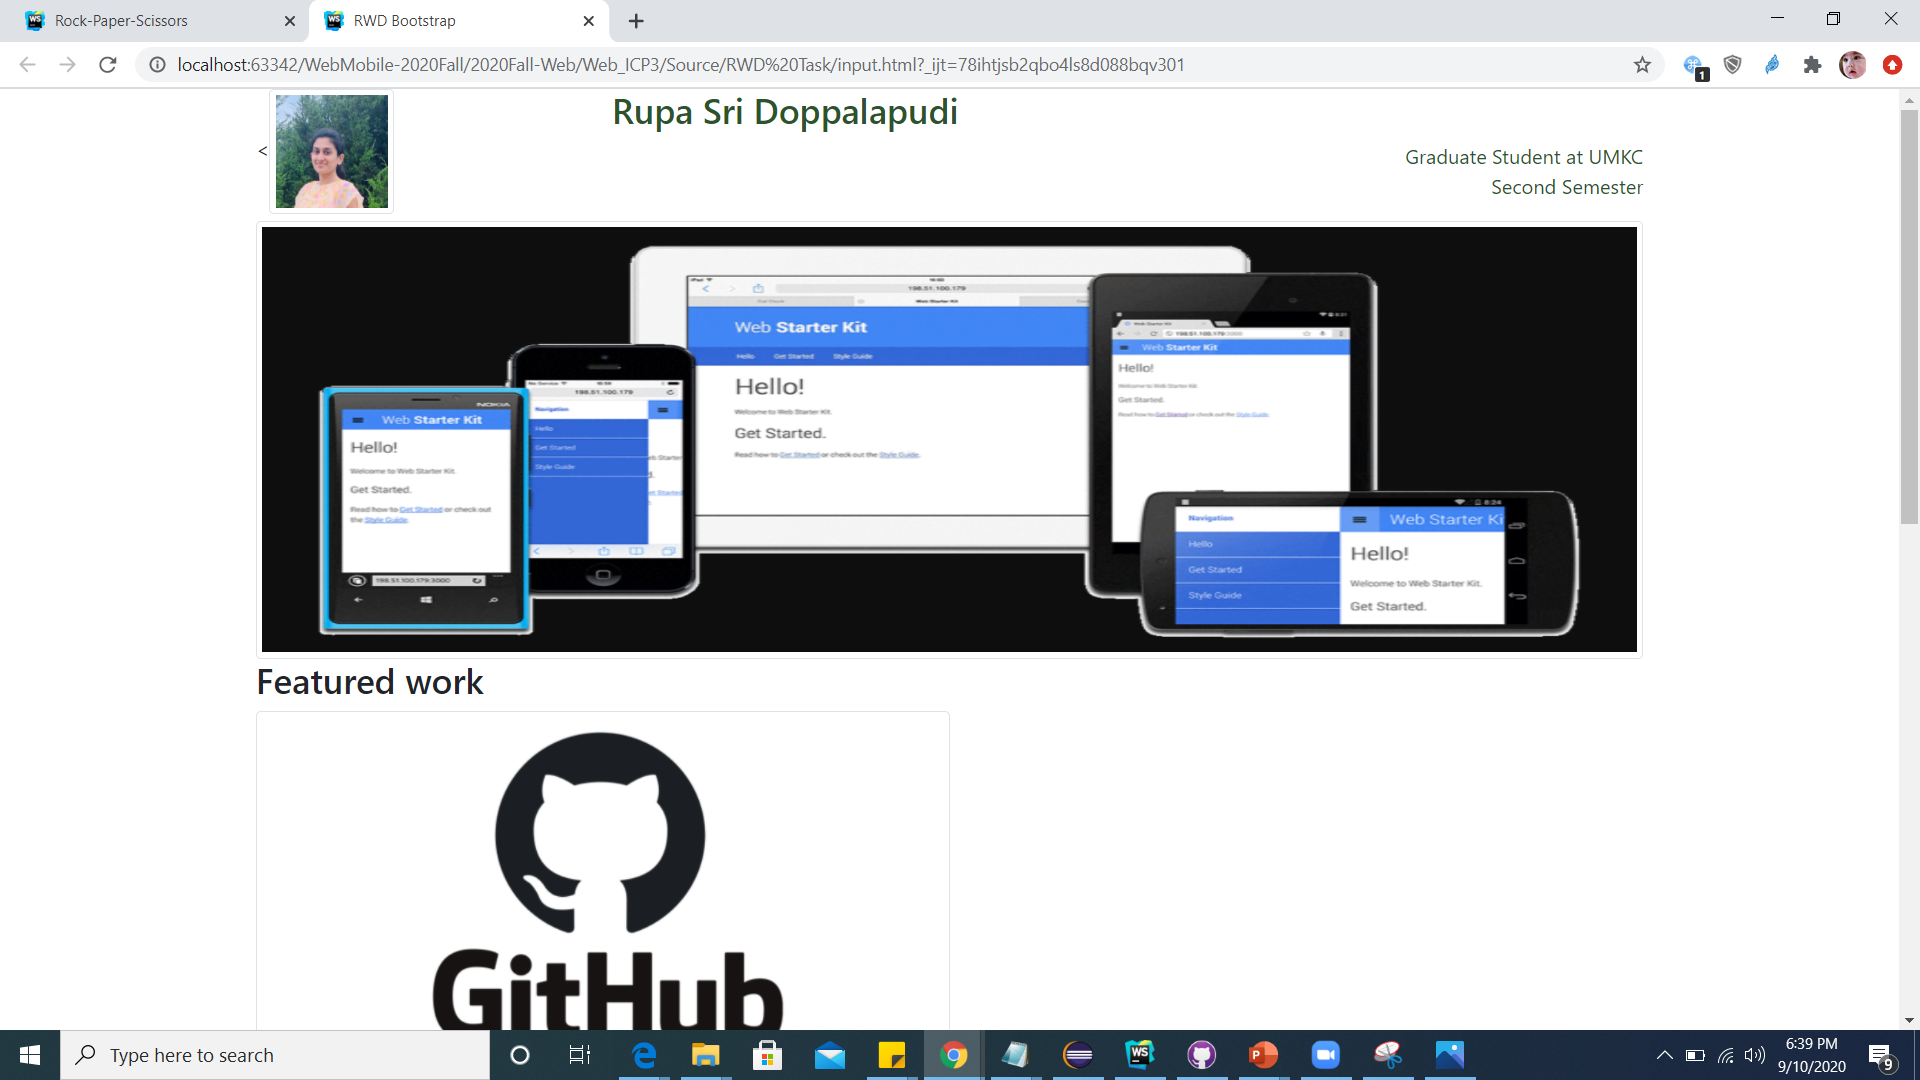
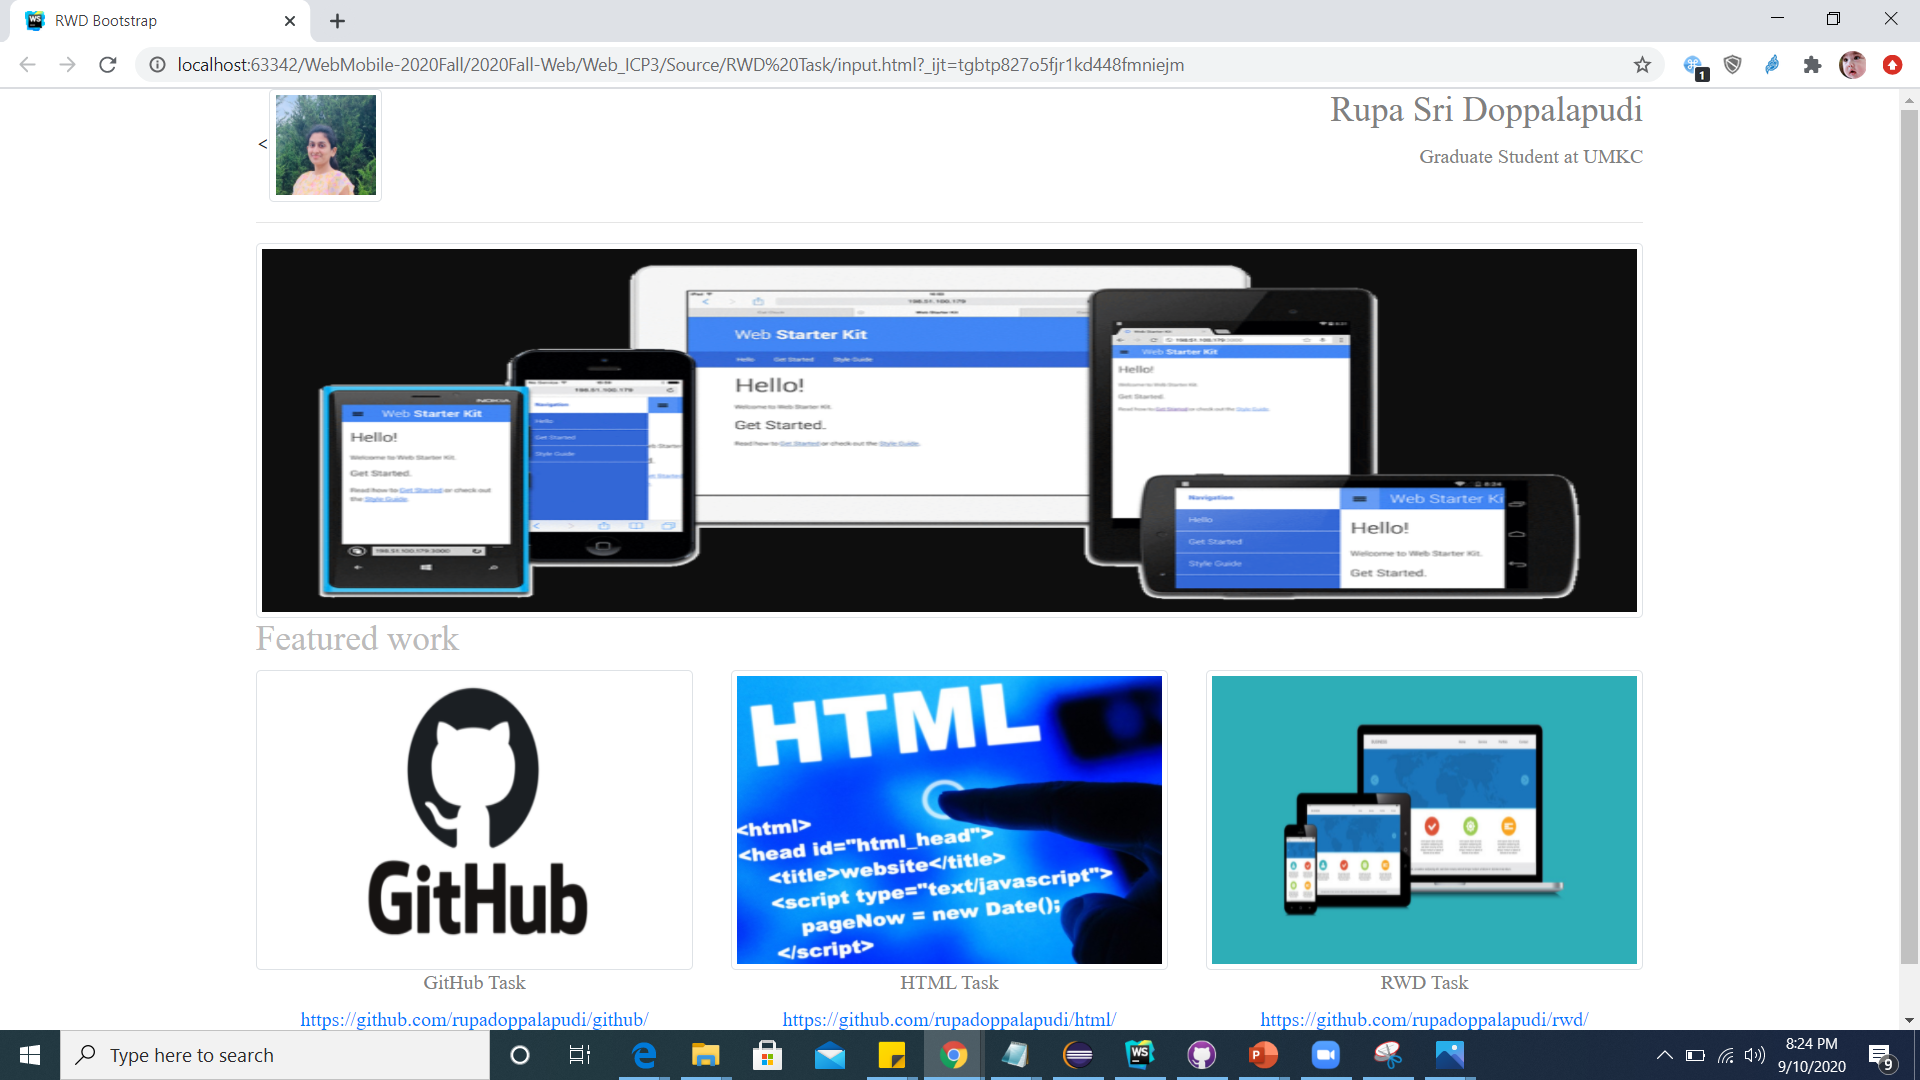
Included Screenshots

diff --git a/2020Fall-Web/Web_ICP3/Source/RWD Task/input.html b/2020Fall-Web/Web_ICP3/Source/RWD Task/input.html
@@ -30,55 +30,48 @@ TODO:
         <!-- dividing 12 columns -->
         <div class="col-3">  <!-- assigning first 3 columns for profile picture -->
             <!---------------------- assigning content to columns ------------------------->
-            <<img src="Images/pic.jpg" alt="profile pic" class="img-thumbnail profile-pic" style="width:100px;height: 100px;"> <!-- media-object -->
+            <<img src="Images/pic.jpg" alt="profile pic" class="img-thumbnail profile-pic" style="width:90px;height: 90px;"> <!-- media-object -->
 
         </div>
-        <div class="col-9">  <!-- assigning remaining 9 columns for details -->
-            <div class="info">
-                <h3 style="color: #2b542c">Rupa Sri Doppalapudi </h3>
-                <p  style="color: #2b542c" align="right"> Graduate Student at UMKC <br> Second Semester</p>
+        <div class="col-9" style="font-family: Lato">  <!-- assigning remaining 9 columns for details -->
+            <div class="info" style="font-family: Lato; color: gray">
+                <h3 align="right" >Rupa Sri Doppalapudi </h3>
+                <p   align="right"> Graduate Student at UMKC </p>
             </div>
         </div>
     </div>
+    <hr>  <!-- Horizontal line -->
+
     <!-- feature work/main image of the page -->
     <div class="row">
         <div class="col">
             <div class="main">
-                <img src="Images/web_mobile_pic.PNG" class="img-thumbnail profile-pic" style="width:1140px;height: 350px;" alt="Web Mobile pic"/>
-                <h3 class="info">Featured work</h3>
+                <img src="Images/web_mobile_pic.PNG" class="img-thumbnail profile-pic" style="width:1140px; height: 300px;" alt="Web Mobile pic"/>
+                <h3 class="info" style="font-family: Lato; color: #BCBBBB">Featured work</h3>
 
             </div>
         </div>
     </div>
 
-    <!-- assigning the image and links-->
-    <div class="row info">
+    <!-- dividing last row of container into 3 columns -->
+    <div class="row last mb-20" style="font-family: Lato; color: gray">
+
         <div class="col">
-            <img src="Images/github_pic.PNG" class="img-thumbnail profile-pic" style="width:555px;height: 300px;" alt="GitHub pic"/>
-            <h3>GitHub Task</h3> <!-- App1 -->
-            <p><a href="https://github.com/rupadoppalapudi/WebMobile-2020Fall/tree/master/2020Fall-Web/Web_ICP1">View Task_ICP1</a></p>
-        </div>
+            <img src="Images/github_pic.PNG" class="img-thumbnail profile-pic" style="width:555px;height: 240px;" alt="GitHub pic"/>
+            <h6 class="image-heading" align="center">GitHub Task</h6>
+            <p style="text-align: center"><a href="https://github.com/rupadoppalapudi/WebMobile-2020Fall/tree/master/2020Fall-Web/Web_ICP1">https://github.com/rupadoppalapudi/github/</a></p>
         </div>
 
-    <!-- dividing the row into 2 parts and assigning the image and links-->
-    <div class="row info">
         <div class="col">
-            <img src="Images/html_pic.PNG" class="img-thumbnail profile-pic" style="width:555px;height: 300px;" alt="HTML pic"/>
-            <h3>HTML Task</h3>
-            <p><a href="https://github.com/rupadoppalapudi/WebMobile-2020Fall/tree/master/2020Fall-Web/Web_ICP2">View Task_ICP2</a></p>
+            <img src="Images/html_pic.PNG" class="img-thumbnail profile-pic" style="width:555px;height: 240px;" alt="HTML pic"/>
+            <h6 class="image-heading" align="center">HTML Task</h6>
+            <p style="text-align: center"><a href="https://github.com/rupadoppalapudi/WebMobile-2020Fall/tree/master/2020Fall-Web/Web_ICP2">https://github.com/rupadoppalapudi/html/</a></p>
         </div>
-        <div class="col">
-            <img src="Images/css_pic.PNG" class="img-thumbnail profile-pic" style="width:555px;height: 300px;" alt="CSS pic"/>
-            <h3>CSS Task</h3>
-        </div>
-    </div>
 
-    <!-- last row of container -->
-    <div class="row last">
         <div class="col">
-            <img src="Images/rwd_pic.PNG" class="img-thumbnail profile-pic" style="width:555px;height: 300px;" alt="RWD pic"/>
-            <h3>RWD Task</h3>
-            <p><a href="https://github.com/rupadoppalapudi/WebMobile-2020Fall/tree/master/2020Fall-Web/Web_ICP3">View Task_ICP3</a></p>
+            <img src="Images/rwd_pic.PNG" class="img-thumbnail profile-pic" style="width:555px;height: 240px;" alt="RWD pic"/>
+            <h6 class="image-heading" align="center">RWD Task</h6>
+            <p style="text-align: center"><a href="https://github.com/rupadoppalapudi/WebMobile-2020Fall/tree/master/2020Fall-Web/Web_ICP3">https://github.com/rupadoppalapudi/rwd/</a></p>
         </div>
     </div>
 
@@ -86,7 +79,7 @@ TODO:
     </div>
 
 
-<!------------------------------ links to JavaScript ( jQuery, Popper.js, Bootstrap JS ) --------------------------------
+<!------------------------------ links to JavaScript ( jQuery, Popper.js, Bootstrap JS ) ---------------------------------->
 <script src="https://code.jquery.com/jquery-3.3.1.slim.min.js" integrity="sha384-q8i/X+965DzO0rT7abK41JStQIAqVgRVzpbzo5smXKp4YfRvH+8abtTE1Pi6jizo" crossorigin="anonymous"></script>
 <script src="https://cdnjs.cloudflare.com/ajax/libs/popper.js/1.14.7/umd/popper.min.js" integrity="sha384-UO2eT0CpHqdSJQ6hJty5KVphtPhzWj9WO1clHTMGa3JDZwrnQq4sF86dIHNDz0W1" crossorigin="anonymous"></script>
 <script src="https://stackpath.bootstrapcdn.com/bootstrap/4.3.1/js/bootstrap.min.js" integrity="sha384-JjSmVgyd0p3pXB1rRibZUAYoIIy6OrQ6VrjIEaFf/nJGzIxFDsf4x0xIM+B07jRM" crossorigin="anonymous"></script>
